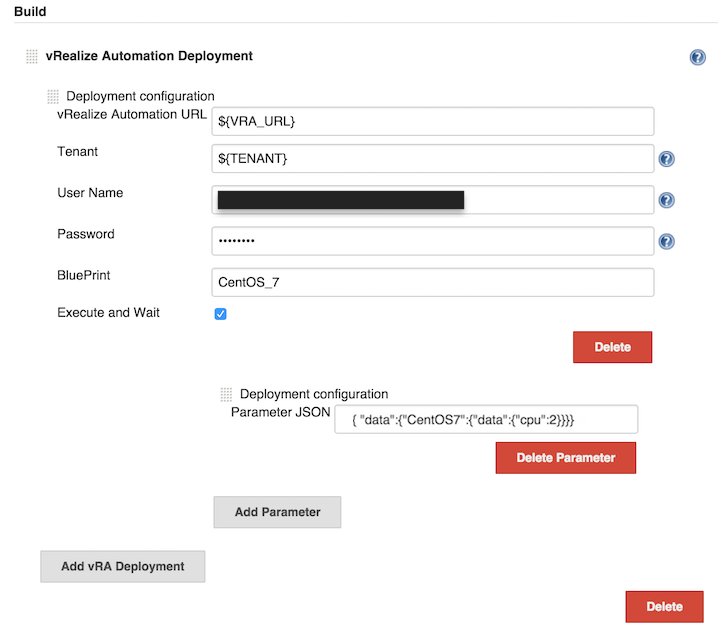
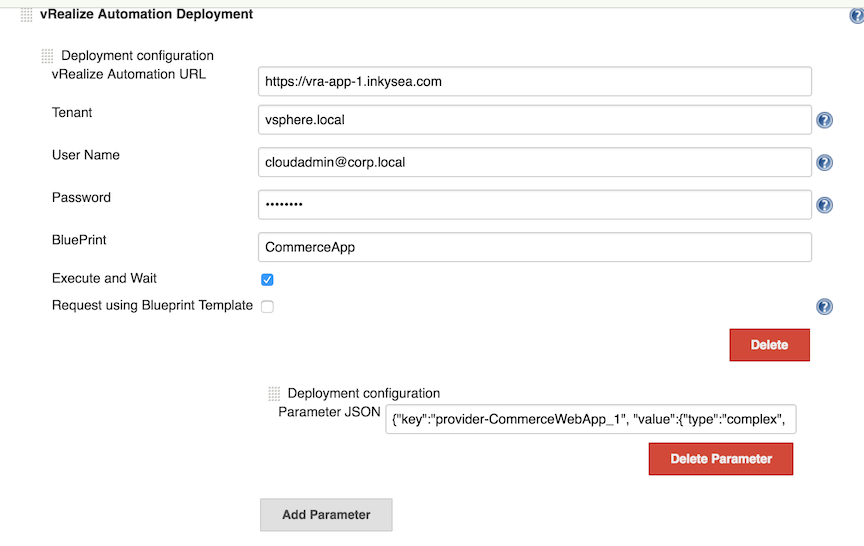
Fixed bug that prevented blueprint parameters from displaying

diff --git a/README.md b/README.md
@@ -40,15 +40,52 @@ Configure :  Configure the plugin as shown
   * Password - Password for  user
   * Blueprint - The name of the blueprint to be provisioned.
   * Execute and Wait - If checked the Jenkins job will wait for the blueprint to be provisioned
+  * Request using Blueprint Template - Disabled by default.  Checking this box will use the blueprint template.  I've 
+    disabled this as requesting via Blueprint Template's provide inconsistent results if you have multiple network profiles
+    defined in your reservation.  Also note that using the blueprint template means that the JSON required for the deployment
+    configuration options will differ.
   * Add Deployment Configuration - Deployment configuration parameters can be specified to adjust settings such as CPU.
-   Parameters are specified as JSON.
-
+   Parameters are specified as JSON.    Thy format of the JSON string will differ if you have the "Request using 
+   Blueprint Template" enabled.
+   
 ![Configure](/doc/vRA_BuildStep.png)    
-
+   
+   
+   The JSON for parameters can be determined by looking at the JSON blueprint template from vRA.  The template for a 
+   blueprint can be viewed by running a build job and looking at the console output or using the vRealize cloudclient. 
+   See below for the JSON blueprint logged to the build console.
+   
+   A note about Deployment configuration parameters:
+   
+   The format of your configuration JSON will depend on your selection of the "Request using Blueprint Template" option.
+   If you stay with the default, option is unchecked.  you will define the JSON like the string below.  
+   
+   {"key":"provider- **CommerceWebApp_1** ",
+    "value":{"type":"complex",
+            "values":{" *entries* " :[
+                        {"key":" **artifactURL** ", "value":{"type":"string", "value":" **http://artifactserver/commerceApp.zip** "}}
+                        ]
+                     }
+            }
+    }
        
-    The JSON for parameters can be determined by looking at the JSON blueprint template from vRA.  The template for a 
-    blueprint can be viewed by running a build job and looking at the console output or using the vRealize cloudclient. 
-    See below for the JSON blueprint logged to the build console.
+   Note the bold text will change based on your blueprint.  The provider name will be the name of your component in the
+   blueprint. The entries array in the JSON will be a key/value mapping in this case my key is artifactURL, which is 
+   also the property in my blueprint that I want to set a value.  The value is set to my artifact repository URL.   Since this is
+   a JSON array, you can specify multiple key/value pairs that belong to same provider.  
+     
+     for example: "entries": [  { "key":"var1", "value"="value1" } , { "key":"var2", "value"="value2" } ]
+    
+   
+   If you choose "Request using Blueprint Template" then your JSON format must match the blueprint templates contents.
+   The blueprint template will be logged to the console window as shown below.  You may also get the template using the
+   cloudclient.  Simply search for the section that contains the parameter you wish to change and copy that JSON to your
+   deployment configuration paramemters.  I'd recommend using a friendly JSON editor to look at the contents of the blueprint
+   template so that you can select the parameters you wish to modify.
+   
+   For example:  A simple CPU change in a blueprint template where CentOS7 is the name of the VM in the blueprint.
+   
+   {"data":{" **CentOS7** ":{"data":"cpu":2}}}}
      
 ![Configure](/doc/console.png)    
      
